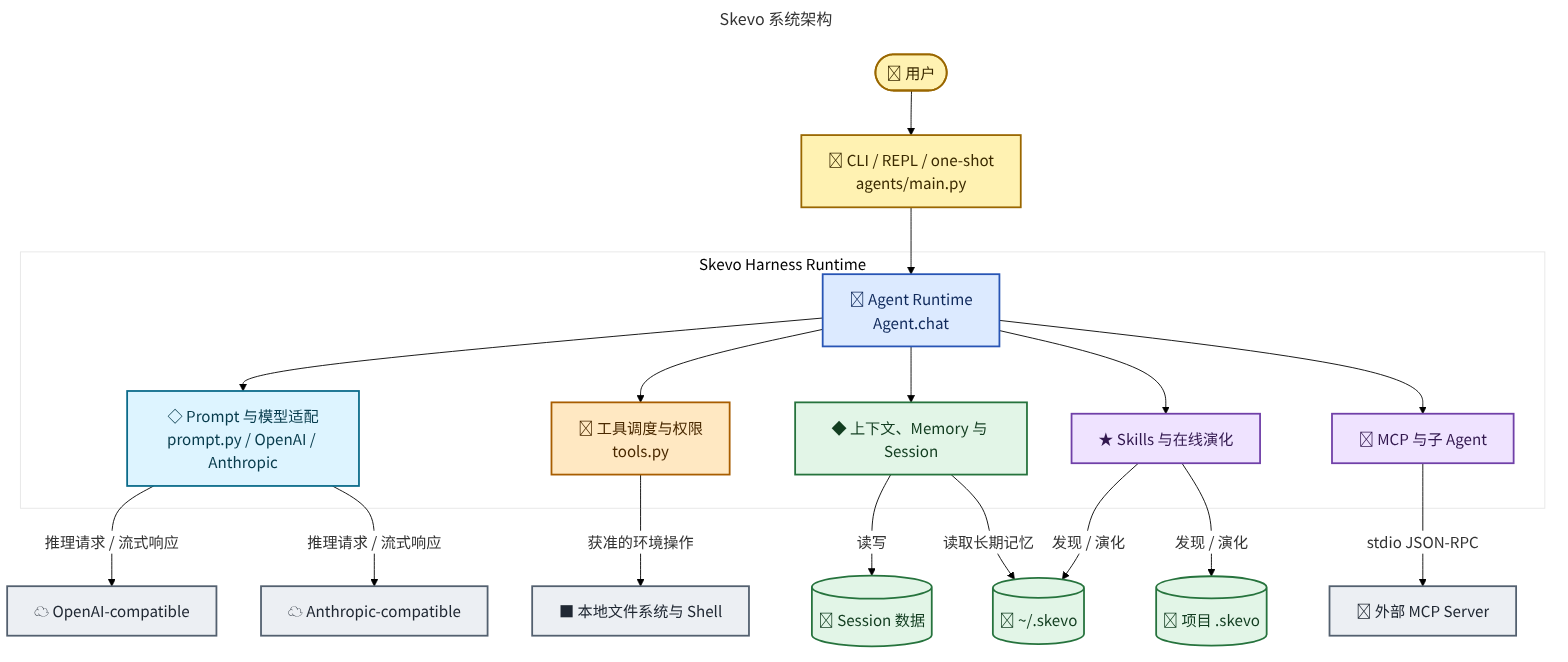
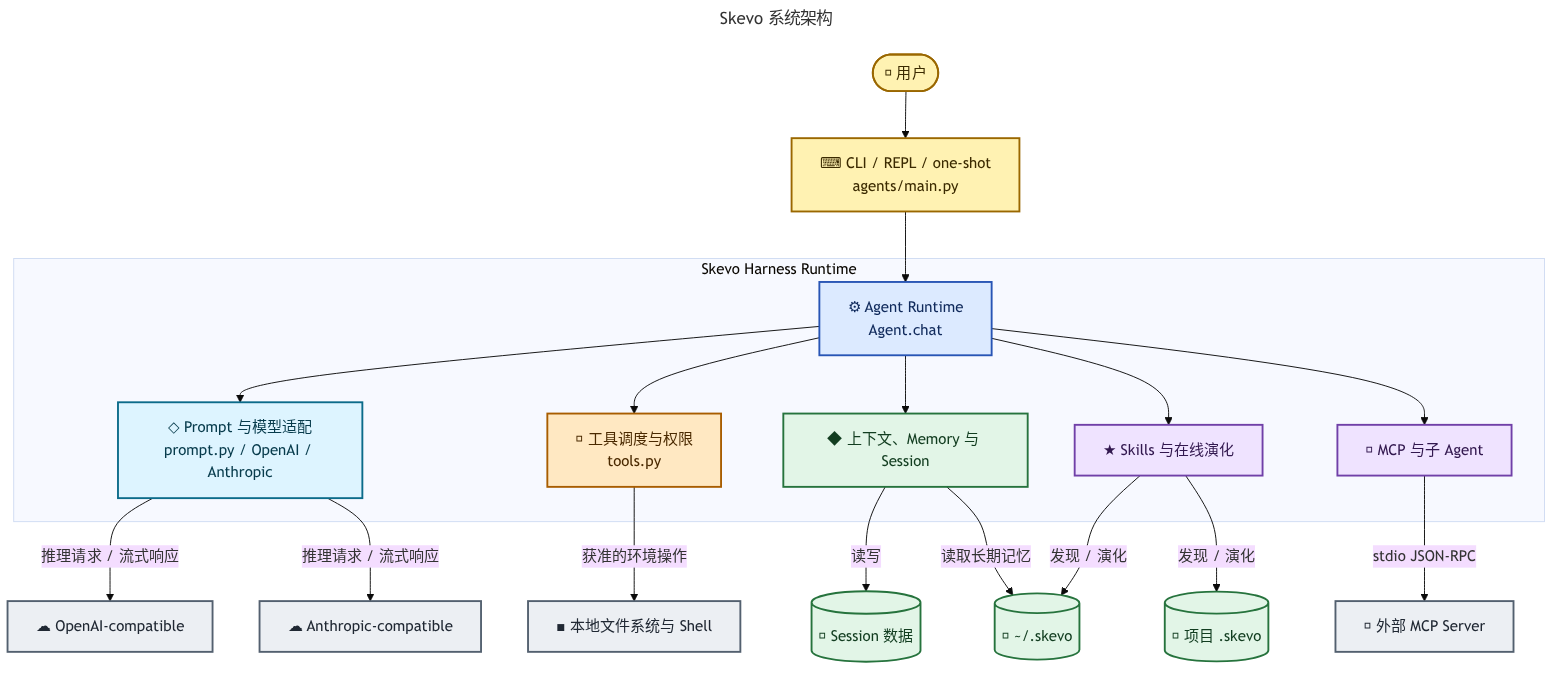
docs: sync diagram plan and accessibility metadata

diff --git a/docs/superpowers/plans/2026-08-20-skevo-mermaid-diagram-suite.md b/docs/superpowers/plans/2026-08-20-skevo-mermaid-diagram-suite.md
@@ -178,11 +178,13 @@ config:
 ---
 %% Purpose: 按真实顺序展示一次用户请求从 CLI 到模型、工具、Session 和后台任务的生命周期。
 %% Audience: both
-%% Sources: agents/main.py, agents/agent.py
+%% Sources: agents/main.py, agents/agent.py, agents/skills.py, agents/memory.py
 %% Anchors: run_repl, run_one_shot, Agent.chat, Agent._chat_openai, Agent._chat_anthropic, Agent._check_budget
 %% Out of scope: 权限决策细节、具体工具实现、Skill 演化内部判断。
 
 sequenceDiagram
+    accTitle: Skevo Agent Loop 请求生命周期
+    accDescr: 用户请求进入 Runtime，经流式模型与工具循环处理，最后调度后台任务并保存 Session
     autonumber
     actor User as 👤 用户
     participant CLI as ⌨ CLI / REPL
@@ -204,10 +206,11 @@ sequenceDiagram
     Skills-->>Runtime: top 3 metadata / 无命中
 
     alt OpenAI-compatible
-        Runtime->>Memory: 启动异步预取
+        Runtime--)Memory: 启动异步预取
     else Anthropic-compatible
-        Runtime->>Memory: 启动异步预取
+        Runtime--)Memory: 启动异步预取
     end
+    Note right of Runtime: 预取或注入失败不打断模型循环
 
     loop 文本或 tool call 驱动的 Agent Loop
         Runtime->>Runtime: compression pipeline
@@ -215,26 +218,44 @@ sequenceDiagram
             Memory-->>Runtime: 非阻断注入相关长期记忆
         end
         Runtime->>Model: 流式模型调用（可重试错误指数退避）
-        Model-->>Runtime: text + tool calls
+        Model-->>Runtime: 流式 text delta / tool call delta
+        Runtime-->>CLI: 流式输出文本
+        opt Anthropic 流式期间工具块已完整
+            Runtime--)Tools: 并发安全且权限已允许：提前启动
+        end
         alt 无 tool call
-            Runtime-->>CLI: 最终文本
+            Runtime->>Runtime: 当前回复结束
         else 达到 max_turns / max_cost_usd
             Runtime->>Runtime: 跳过工具并记录预算原因
         else 有 tool call 且预算允许
-            Runtime->>Tools: 权限检查与执行
-            Tools-->>Runtime: tool result / denied / error
-            Runtime->>Model: 回写 tool result 并继续推理
+            alt 已提前启动
+                Tools-->>Runtime: 提前执行结果
+            else 尚未执行
+                Runtime->>Tools: 权限检查与执行
+                Tools-->>Runtime: tool result / denied / error
+            end
+            Runtime->>Runtime: 将 tool result 追加到消息历史
+            opt context break
+                Runtime->>Runtime: 停止当前工具批次并使用新上下文继续
+            end
             Runtime->>Runtime: 工具批次后检查自动 compaction
         end
-        opt abort 或 context break
-            Runtime->>Runtime: 终止相应循环
+        opt abort
+            Runtime->>Runtime: 终止 Agent Loop
         end
     end
 
-    Runtime->>State: 自动保存 Session
-    Runtime--)State: Skill usage tracking
-    Runtime--)State: 已成熟窗口的 online evolution
-    Runtime->>State: 保存当前轮为下一 pending window
+    opt 主 Agent 且未 abort
+        Runtime--)State: 异步调度 Skill usage tracking
+        opt 存在已成熟的 pending window
+            Runtime--)State: 异步调度已成熟窗口的 online evolution
+        end
+        Runtime->>Runtime: 设置下一 pending extraction window
+    end
+    opt 主 Agent
+        Runtime->>State: _auto_save Session
+    end
+    Note over CLI,State: one-shot 在 chat 后等待后台任务；REPL 在退出时等待
     CLI-->>User: 输出完成
 ```
 
